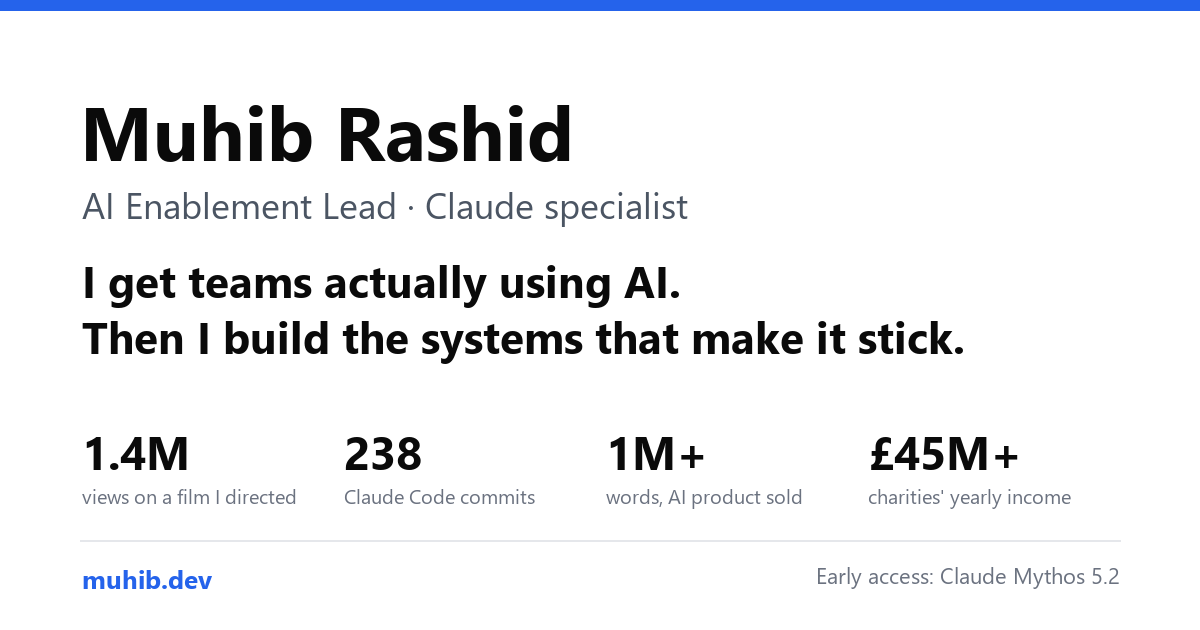
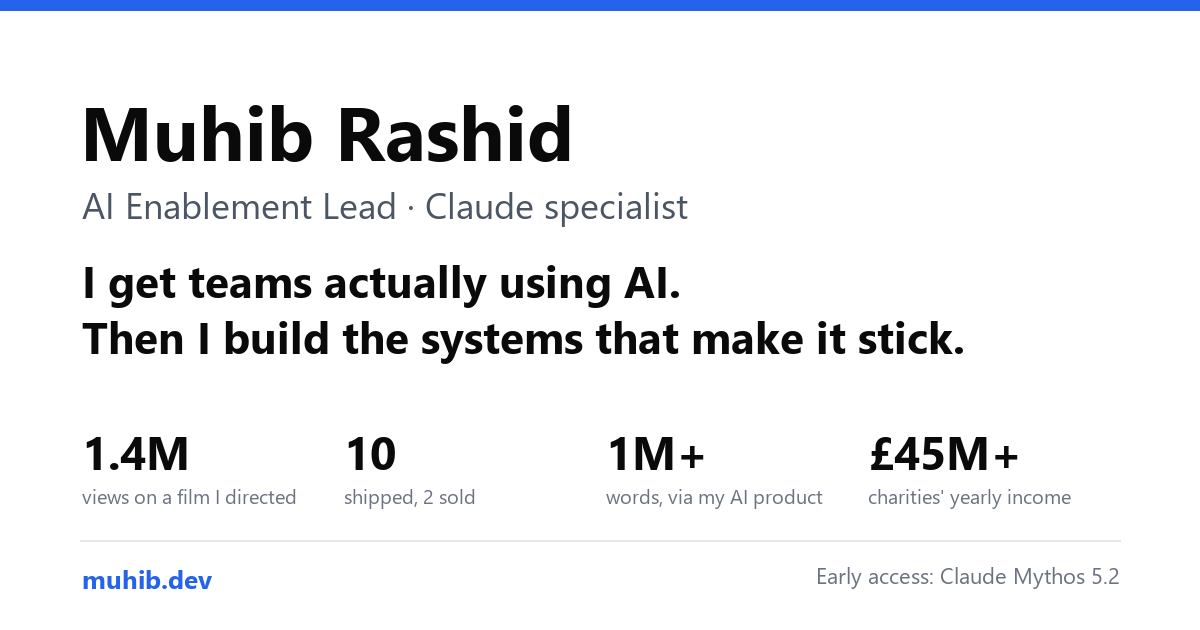
Swap commit count for 10 shipped, 2 sold

Changed region(s): [[0.2775, 0.7841, 0.4625, 0.8143], [0.2775, 0.6937, 0.37, 0.754], [0.555, 0.7841, 0.6783, 0.8143]]

diff --git a/index.html b/index.html
@@ -4,19 +4,19 @@
 <meta charset="utf-8">
 <meta name="viewport" content="width=device-width, initial-scale=1">
 <title>Muhib Rashid · AI Enablement Lead, Claude specialist</title>
-<meta name="description" content="I get teams using AI, then build the Claude systems that keep them using it. 238 commits made with Claude Code, an AI product I built and sold, and a fundraising film seen 1.4M times.">
+<meta name="description" content="I get teams using AI, then build the Claude systems that keep them using it. 10 sites and products shipped, two of them sold, and a fundraising film seen 1.4M times.">
 <link rel="canonical" href="https://muhib.dev/">
 <link rel="icon" href="https://muhib.dev/favicon.svg" type="image/svg+xml">
 <meta property="og:type" content="website">
 <meta property="og:url" content="https://muhib.dev/">
 <meta property="og:title" content="Muhib Rashid · AI Enablement Lead, Claude specialist">
-<meta property="og:description" content="I get teams using AI, then build the Claude systems that keep them using it. 238 commits made with Claude Code, an AI product I built and sold, and a fundraising film seen 1.4M times.">
+<meta property="og:description" content="I get teams using AI, then build the Claude systems that keep them using it. 10 sites and products shipped, two of them sold, and a fundraising film seen 1.4M times.">
 <meta property="og:image" content="https://muhib.dev/og.png">
 <meta property="og:image:width" content="1200">
 <meta property="og:image:height" content="630">
 <meta name="twitter:card" content="summary_large_image">
 <meta name="twitter:title" content="Muhib Rashid · AI Enablement Lead, Claude specialist">
-<meta name="twitter:description" content="I get teams using AI, then build the Claude systems that keep them using it. 238 commits made with Claude Code, an AI product I built and sold, and a fundraising film seen 1.4M times.">
+<meta name="twitter:description" content="I get teams using AI, then build the Claude systems that keep them using it. 10 sites and products shipped, two of them sold, and a fundraising film seen 1.4M times.">
 <meta name="twitter:image" content="https://muhib.dev/og.png">
 <link rel="preconnect" href="https://fonts.googleapis.com">
 <link rel="preconnect" href="https://fonts.gstatic.com" crossorigin>
@@ -384,7 +384,7 @@ details[open]::details-content { height: auto; }
   <section class="reveal" aria-label="Results">
     <div class="proof">
       <div><b>1.4M views</b><span>on a fundraising film I scripted, voiced and directed for Penny Appeal Canada</span></div>
-      <div><b>238 commits</b><span>made with Claude Code across four shipped projects, each one linked below</span></div>
+      <div><b>10 shipped</b><span>live sites and products, two of them sold, each one shown with its full working below</span></div>
       <div><b>1M+ words</b><span>transcribed by Companion, the AI product I built and sold</span></div>
       <div><b>£45M+</b><span>combined yearly income of the charities I've done creative work for</span></div>
       <div><b>~2 hours</b><span>to draft a full book, down from weeks, with AI tools I built</span></div>
@@ -945,7 +945,7 @@ const PROJECTS = [
 },
 /* ------------------------------------------------------------------ THIS SITE */
 {
-  img: "img/this-site", repo: "muhibegypt-del/muhib.dev", claude: [10, 10], id: "this-site", group: "apps", name: "muhib.dev (this site)",
+  img: "img/this-site", repo: "muhibegypt-del/muhib.dev", claude: [11, 11], id: "this-site", group: "apps", name: "muhib.dev (this site)",
   status: "Live · every commit made with Claude Code",
   line: "This portfolio: researched from my own git history, written, built and deployed with Claude Code.",
   url: "https://muhib.dev",

diff --git a/src.html b/src.html
@@ -4,19 +4,19 @@
 <meta charset="utf-8">
 <meta name="viewport" content="width=device-width, initial-scale=1">
 <title>Muhib Rashid · AI Enablement Lead, Claude specialist</title>
-<meta name="description" content="I get teams using AI, then build the Claude systems that keep them using it. 238 commits made with Claude Code, an AI product I built and sold, and a fundraising film seen 1.4M times.">
+<meta name="description" content="I get teams using AI, then build the Claude systems that keep them using it. 10 sites and products shipped, two of them sold, and a fundraising film seen 1.4M times.">
 <link rel="canonical" href="https://muhib.dev/">
 <link rel="icon" href="https://muhib.dev/favicon.svg" type="image/svg+xml">
 <meta property="og:type" content="website">
 <meta property="og:url" content="https://muhib.dev/">
 <meta property="og:title" content="Muhib Rashid · AI Enablement Lead, Claude specialist">
-<meta property="og:description" content="I get teams using AI, then build the Claude systems that keep them using it. 238 commits made with Claude Code, an AI product I built and sold, and a fundraising film seen 1.4M times.">
+<meta property="og:description" content="I get teams using AI, then build the Claude systems that keep them using it. 10 sites and products shipped, two of them sold, and a fundraising film seen 1.4M times.">
 <meta property="og:image" content="https://muhib.dev/og.png">
 <meta property="og:image:width" content="1200">
 <meta property="og:image:height" content="630">
 <meta name="twitter:card" content="summary_large_image">
 <meta name="twitter:title" content="Muhib Rashid · AI Enablement Lead, Claude specialist">
-<meta name="twitter:description" content="I get teams using AI, then build the Claude systems that keep them using it. 238 commits made with Claude Code, an AI product I built and sold, and a fundraising film seen 1.4M times.">
+<meta name="twitter:description" content="I get teams using AI, then build the Claude systems that keep them using it. 10 sites and products shipped, two of them sold, and a fundraising film seen 1.4M times.">
 <meta name="twitter:image" content="https://muhib.dev/og.png">
 <link rel="preconnect" href="https://fonts.googleapis.com">
 <link rel="preconnect" href="https://fonts.gstatic.com" crossorigin>
@@ -384,7 +384,7 @@ details[open]::details-content { height: auto; }
   <section class="reveal" aria-label="Results">
     <div class="proof">
       <div><b>1.4M views</b><span>on a fundraising film I scripted, voiced and directed for Penny Appeal Canada</span></div>
-      <div><b>238 commits</b><span>made with Claude Code across four shipped projects, each one linked below</span></div>
+      <div><b>10 shipped</b><span>live sites and products, two of them sold, each one shown with its full working below</span></div>
       <div><b>1M+ words</b><span>transcribed by Companion, the AI product I built and sold</span></div>
       <div><b>£45M+</b><span>combined yearly income of the charities I've done creative work for</span></div>
       <div><b>~2 hours</b><span>to draft a full book, down from weeks, with AI tools I built</span></div>

diff --git a/projects.js b/projects.js
@@ -414,7 +414,7 @@ const PROJECTS = [
 },
 /* ------------------------------------------------------------------ THIS SITE */
 {
-  img: "img/this-site", repo: "muhibegypt-del/muhib.dev", claude: [10, 10], id: "this-site", group: "apps", name: "muhib.dev (this site)",
+  img: "img/this-site", repo: "muhibegypt-del/muhib.dev", claude: [11, 11], id: "this-site", group: "apps", name: "muhib.dev (this site)",
   status: "Live · every commit made with Claude Code",
   line: "This portfolio: researched from my own git history, written, built and deployed with Claude Code.",
   url: "https://muhib.dev",
